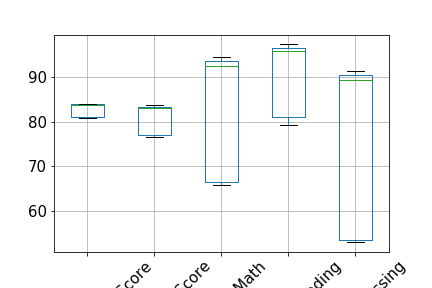
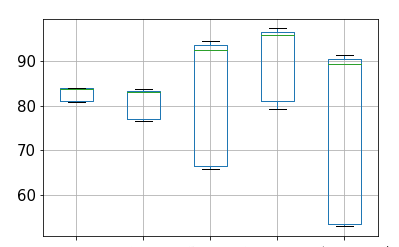
commit

Changed region(s): [[0.0301, 0.1134, 0.9624, 1.0], [0.1203, 0.0567, 0.9323, 0.085]]

diff --git a/docs/index.html b/docs/index.html
@@ -1,7 +1,7 @@
 <!doctype html>
 <html lang="en">
   <head>
-    <title>Restaurant Stars of LA</title>
+    <title>School Days</title>
     <!-- Required meta tags -->
     <meta charset="utf-8">
     <meta name="viewport" content="width=device-width, initial-scale=1, shrink-to-fit=no">
@@ -24,9 +24,9 @@
       <div class="container-fluid">
         <div class="jumbotron jumbotron-fluid">
           <div class="container">
-            <h1 class="display-4">Fun and Games</h1>
-            <p class="lead"> Data queries using Python pandas in analysis of gaming sales dataset.</p>
-            <p>The repository containing the data and script is here: <a href="https://github.com/sherirosalia/Game_Sales_Analysis" class="href">Game_Sales_Analysis</a>.</p>
+            <h1 class="display-4">School Days</h1>
+            <p class="lead">Fifteen schools within a district with various degrees of academic success, population density and per capita spending.</p>
+            <p>This is a brief overview. Deeper analysis is here: <a href="https://github.com/sherirosalia/School_Days" class="href">School Days GitHub Repository</a>.</p>
           </div>
         </div>
       </div>
@@ -39,9 +39,9 @@
         <div class="container">
           <div class="row">
             <div class="col-lg-12 col-md-12 col-sm-12">
-              <h2>Gamers by gender</h2>
+              <h2>Money spent per student</h2>
               <p>
-                Of the 1163 active players, the vast majority are male (84%). There also exists, a smaller, but notable proportion of female players (14%).
+                There is approximately a 20% spread between the highest per capita and lowest for students within the district.
                 
               </p>
             </div>
@@ -58,27 +58,29 @@
           <div class="row">
             
               <div class="col-lg-12 col-md-12 col-sm-12">
-                <h2>Top gamers by age</h2>
+                <h2>Grade variation at the top rated school</h2>
                 <p>
-                  Peak age demographic falls between 20-24 (44.8%) with secondary groups falling between 15-19 (18.60%) and 25-29 (13.4%).
+                  The highest rated school had the same spread between lowest and highest grades on all counts 
+                  as lowest rated. This is despite a stark contrast in passing rates.
                 </p>
               </div>
 
               <div class="col-lg-12 col-md-12 col-sm-12">           
-                <img class="main_images" src="img/top_boxplot.png"  alt="boxplot>               
+                <img class="main_images" src="img/top_boxplot.png"  alt="boxplot">               
               </div>
             
               
           </div>
         </div>
-
+        
         <div class="spacer"></div>
 
         <div class="container">
           <div class="row">
             <div class="col-lg-12 col-md-12 col-sm-12">
-              <h2>Top gamers</h2>
-              <p>The most active gamers tend to spend more per purchase on average.
+              <h2>Student density</h2>
+              <p>Evidence suggests that passing rates correlate with student population density, and the 
+                smaller the school, the higher the chance of graduating.
               </p>
             </div>
             <div class="col-md-12 col-sm-12">
@@ -88,7 +90,9 @@
         </div>
 
         <div class="spacer"></div>
-
+      </div>
+      <div class="spacer"></div>
+    <div class='container'>
       <footer class="page-footer font-small blue">
         <div class="footer-copyright text-center py-3">
           <p>© 2018-2020 Copyright: <a href="http://www.sherirosalia.com"><img src ="img/rose2.jpg" height="20 px;" width="20 px;" alt="rose logo">Sheri Rosalia</a>
